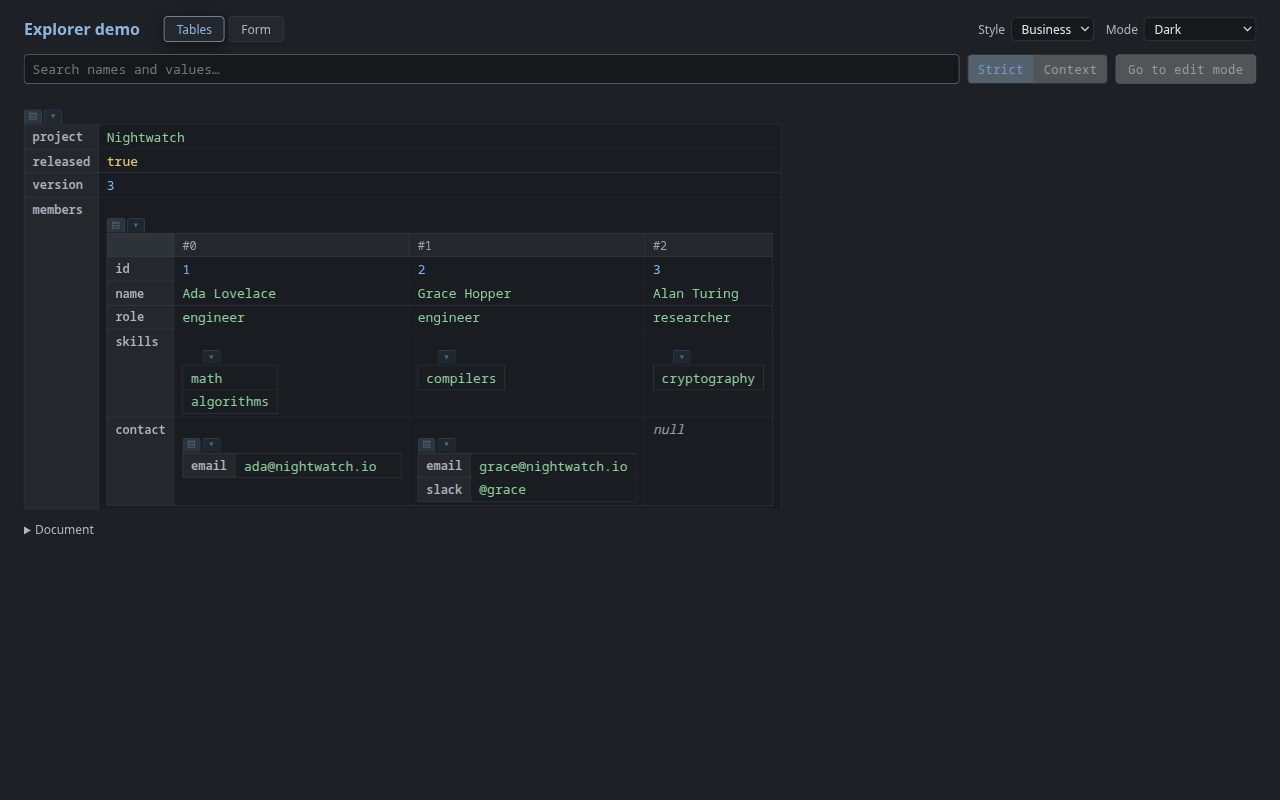
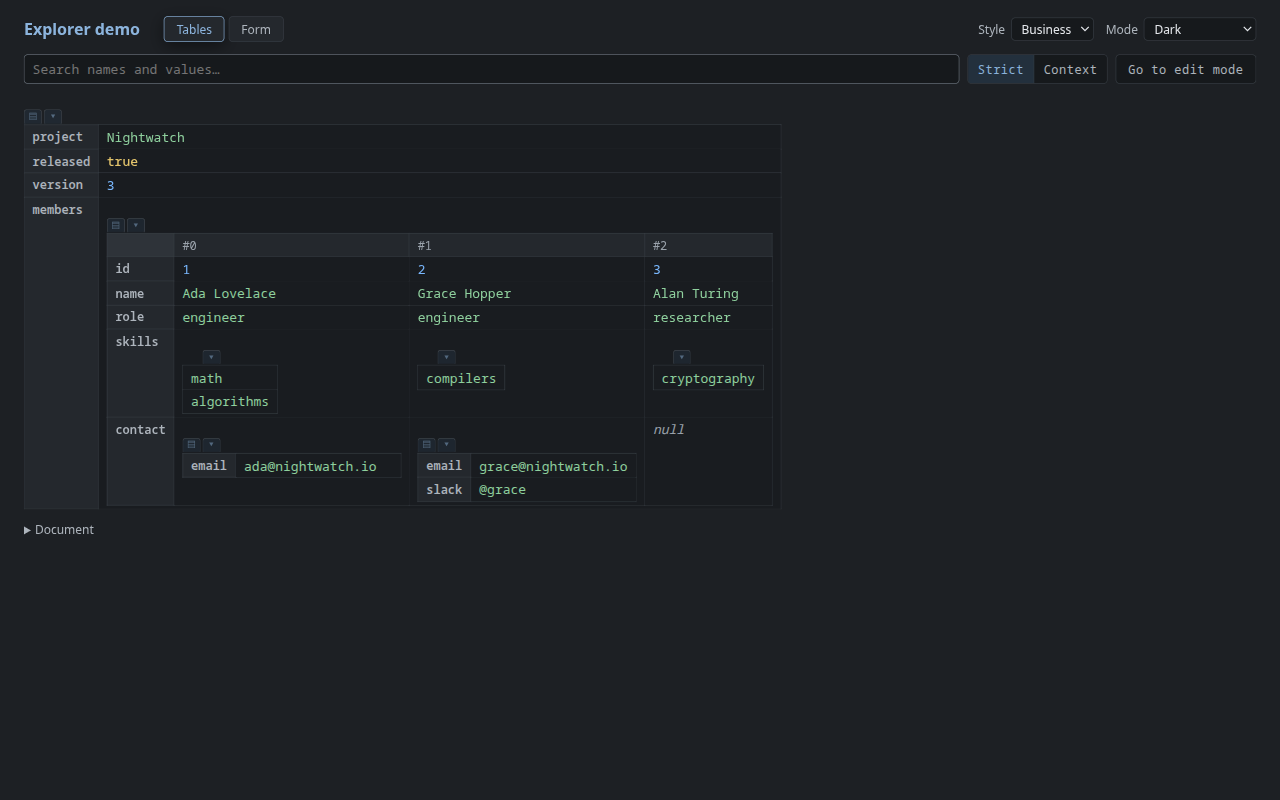
themes: fix save ordering in ThemeService, settle transitions before screenshots

Changed region(s): [[0.75, 0.0625, 1.0, 0.125]]

diff --git a/packages/renderer/src/app/theme/theme.service.ts b/packages/renderer/src/app/theme/theme.service.ts
@@ -14,6 +14,11 @@ export type Style = (typeof STYLES)[number];
 export type ThemeMode = (typeof THEME_MODES)[number];
 export type EffectiveMode = Exclude<ThemeMode, 'system'>;
 
+type ThemeSettings = Partial<Pick<Settings, 'style' | 'mode'>>;
+type ThemeKey = keyof ThemeSettings;
+type Generations = Record<ThemeKey, number>;
+const THEME_KEYS: readonly ThemeKey[] = ['style', 'mode'];
+
 /** Defaults until the settings arrive (and in a plain browser without the desktop bridge). */
 export const DEFAULT_STYLE: Style = 'business';
 export const DEFAULT_MODE: ThemeMode = 'system';
@@ -43,6 +48,14 @@ export class ThemeService {
   private readonly modeState = signal<ThemeMode>(DEFAULT_MODE);
   private readonly systemDark = signal(false);
   private started = false;
+  /** Last values known to be stored in main; a failed save shows these again. */
+  private readonly confirmed: Required<ThemeSettings> = {
+    style: DEFAULT_STYLE,
+    mode: DEFAULT_MODE,
+  };
+  /** Per key: how many local choices were made, and how many saves are still on their way. */
+  private readonly generation: Generations = { style: 0, mode: 0 };
+  private readonly inFlight: Generations = { style: 0, mode: 0 };
 
   readonly style = this.styleState.asReadonly();
   readonly mode = this.modeState.asReadonly();
@@ -63,9 +76,11 @@ export class ThemeService {
       .subscribe((event: SettingsChanged) => this.take(event.settings));
     this.destroyRef.onDestroy(() => sub.unsubscribe());
 
+    const asked = { ...this.generation };
     try {
       const { settings } = await this.api.request('app.settings.get', {});
-      this.take(settings);
+      // A choice made while the answer was on its way is newer than what main read.
+      this.takeAnswer(settings, asked, []);
     } catch {
       // No desktop bridge (ng serve, tests) or main unavailable: keep the defaults.
     }
@@ -81,27 +96,76 @@ export class ThemeService {
     return this.change({ mode });
   }
 
-  private async change(patch: Partial<Pick<Settings, 'style' | 'mode'>>): Promise<void> {
-    const before = { style: this.styleState(), mode: this.modeState() };
-    this.take(patch);
+  private async change(patch: ThemeSettings): Promise<void> {
+    const keys = THEME_KEYS.filter((key) => patch[key] !== undefined);
+    for (const key of keys) {
+      this.generation[key] += 1;
+      this.inFlight[key] += 1;
+    }
+    const mine = { ...this.generation };
+    this.show(patch);
     try {
       const { settings } = await this.api.request('app.settings.set', { settings: patch });
-      this.take(settings);
+      this.takeAnswer(settings, mine, keys);
     } catch (error) {
-      // Not persisted: show what is stored again, so the UI does not pretend it was saved.
-      this.take(before);
+      // Not persisted: show what is stored again, so the UI does not pretend it was saved. Only the
+      // keys this call changed, and only while nothing newer was chosen for them.
+      const revert: ThemeSettings = {};
+      for (const key of keys) {
+        if (this.generation[key] === mine[key] && this.current()[key] === patch[key]) {
+          Object.assign(revert, { [key]: this.confirmed[key] });
+        }
+      }
+      this.show(revert);
       throw error;
+    } finally {
+      for (const key of keys) this.inFlight[key] -= 1;
     }
   }
 
-  private take(settings: Partial<Pick<Settings, 'style' | 'mode'>>): void {
+  /**
+   * Applies an answer from main (`app.settings.get/set`) requested when the local generations
+   * were `asked`. A key is taken only if no newer local choice was made for it since, and no other
+   * save of it is still on its way (unless this answer is for the latest save of that key).
+   */
+  private takeAnswer(settings: ThemeSettings, asked: Generations, own: readonly ThemeKey[]): void {
+    const accepted: ThemeSettings = {};
+    for (const key of THEME_KEYS) {
+      if (this.generation[key] !== asked[key]) continue;
+      if (this.inFlight[key] > 0 && !own.includes(key)) continue;
+      Object.assign(accepted, { [key]: settings[key] });
+    }
+    this.take(accepted);
+  }
+
+  /** Takes values known to be stored (answers and broadcasts from main). */
+  private take(settings: ThemeSettings): void {
+    const valid = this.valid(settings);
+    Object.assign(this.confirmed, valid);
+    this.show(valid);
+  }
+
+  /** Shows `settings` without recording them as stored. */
+  private show(settings: ThemeSettings): void {
+    const valid = this.valid(settings);
+    if (valid.style) this.styleState.set(valid.style);
+    if (valid.mode) this.modeState.set(valid.mode);
+    this.apply();
+  }
+
+  private valid(settings: ThemeSettings): ThemeSettings {
+    const valid: ThemeSettings = {};
     if (settings.style && (STYLES as readonly string[]).includes(settings.style)) {
-      this.styleState.set(settings.style);
+      valid.style = settings.style;
     }
     if (settings.mode && (THEME_MODES as readonly string[]).includes(settings.mode)) {
-      this.modeState.set(settings.mode);
+      valid.mode = settings.mode;
     }
-    this.apply();
+    return valid;
+  }
+
+  private current(): Required<ThemeSettings> {
+    return { style: this.styleState(), mode: this.modeState() };
   }
 
   private watchSystem(): void {

diff --git a/packages/renderer/src/app/theme/theme.service.spec.ts b/packages/renderer/src/app/theme/theme.service.spec.ts
@@ -286,6 +286,31 @@ describe('ThemeService', () => {
       expect(theme.mode()).toBe('dark');
       expect(attrs()).toEqual({ style: 'business', theme: 'dark' });
     });
+
+    it('two overlapping failed saves end on the stored values, not an unsaved one', async () => {
+      const failures = [
+        deferred<{ error: { code: 'INTERNAL'; message: string } }>(),
+        deferred<{ error: { code: 'INTERNAL'; message: string } }>(),
+      ];
+      let calls = 0;
+      fake.handle(
+        'app.settings.set',
+        () => failures[calls++]?.promise ?? new Promise(() => undefined),
+      );
+      const theme = TestBed.inject(ThemeService);
+      await theme.init();
+
+      const style = theme.setStyle('tron');
+      const mode = theme.setMode('dark');
+      failures[0]?.resolve({ error: { code: 'INTERNAL', message: 'disk full' } });
+      await expect(style).rejects.toMatchObject({ code: 'INTERNAL' });
+      failures[1]?.resolve({ error: { code: 'INTERNAL', message: 'disk full' } });
+      await expect(mode).rejects.toMatchObject({ code: 'INTERNAL' });
+
+      expect(theme.style()).toBe('business');
+      expect(theme.mode()).toBe('system');
+      expect(attrs()).toEqual({ style: 'business', theme: 'light' });
+    });
   });
 });
 

diff --git a/apps/desktop/test/theme.electron.spec.ts b/apps/desktop/test/theme.electron.spec.ts
@@ -112,7 +112,14 @@ describe('themes in the running app', () => {
           expect(now.font).toMatch(/^system-ui/);
           expect(now.overlay).toMatch(/^none(, none)*$/);
         }
-        await page.screenshot({ path: path.join(shots, `explorer-${style}-${mode}.png`) });
+        // Controls fade between themes (CSS transitions): shoot the final colors, not a mix.
+        await page.evaluate(() =>
+          Promise.all(document.getAnimations().map((a) => a.finished)).then(() => undefined),
+        );
+        await page.screenshot({
+          path: path.join(shots, `explorer-${style}-${mode}.png`),
+          animations: 'disabled',
+        });
       }
     }
     // Four different page backgrounds, and the page was never reloaded.

diff --git a/reviews/themes/fixes.md b/reviews/themes/fixes.md
@@ -1,0 +1,74 @@
+# Fix Report
+
+Date: 2026-11-16
+
+Task: themes - M0: Business and Tron styles, each light and dark
+
+Scope: current task. Findings CR-1 and CR-2 come from `reviews/themes/review.md`. TW-1, TW-2 and TW-3 come from `reviews/themes/tests.md`.
+
+## Fixed findings
+
+### CR-2, TW-1, TW-2, TW-3: ThemeService ordering under overlapping requests
+
+Files changed:
+- `packages/renderer/src/app/theme/theme.service.ts`
+- `packages/renderer/src/app/theme/theme.service.spec.ts` (one regression test added for CR-2; Prettier formatting)
+
+Problem:
+- `change()` took a snapshot of both style and mode, and a failed save restored the whole snapshot. That snapshot could hold another call's unsaved value (CR-2), and the restore could also overwrite the other key after it was saved (TW-3).
+- Every `app.settings.set` answer was applied unconditionally. An older answer that arrived last could override a newer choice (TW-2).
+- The initial `app.settings.get` answer was also applied unconditionally. A late answer could undo a choice the user made in the meantime (TW-1).
+
+Fix:
+- The service now tracks two counters per key: a generation, raised on each local choice, and an in-flight count of saves still waiting for an answer. It also tracks `confirmed`, the last value per key known to be stored in main.
+- An answer from main (`get` or `set`) is applied to a key only if two things hold:
+    - no newer local choice was made for that key since the request was sent;
+    - no other save of that key is still pending, unless this answer belongs to the latest save of that key.
+- A failed save reverts only the keys that call changed. It reverts a key only while that call is still the latest choice for it and the key still shows the value the call set. The key goes back to `confirmed`, not to a snapshot.
+- `app.settings.changed` broadcasts are still applied unconditionally and update `confirmed`.
+- The public API (`init`, `setStyle`, `setMode`, `style`, `mode`, `effective`) is unchanged.
+- New regression test: `two overlapping failed saves end on the stored values, not an unsaved one`. It covers the exact CR-2 sequence and fails against the old snapshot logic.
+
+Validation:
+- `cd packages/renderer && npx ng test --include='src/app/theme/*.spec.ts'`: Pass. 2 files, 44 tests; the 3 TW tests and the new CR-2 test all pass.
+
+### CR-1: Evidence screenshots taken during CSS transitions
+
+Files changed:
+- `apps/desktop/test/theme.electron.spec.ts`
+- `reviews/themes/screenshots/explorer-business-dark.png`, `explorer-tron-light.png`, `explorer-tron-dark.png` (regenerated). `explorer-business-light.png` was copied as well and came out byte-identical, since nothing was transitioning when it was taken.
+
+Problem:
+Screenshots were taken right after the theme attributes changed, while the explorer controls were still in their 0.15 s color transitions. This left the buttons grey in the screenshots.
+
+Fix:
+Before each screenshot, the test now waits for `Promise.all(document.getAnimations().map((a) => a.finished))` inside the page. It also passes `animations: 'disabled'` to `page.screenshot`. The four PNGs were copied from `apps/desktop/test-results/screenshots/` into `reviews/themes/screenshots/` and inspected visually. Every control shows its final theme colors; for example, the Strict, Context and "Go to edit mode" buttons in Tron light are white with readable text.
+
+Validation:
+- `npm run test:electron --prefix /home/eric/work/mongo-db-client-agents/agent-1`: `theme.electron.spec.ts` passes. Overall: 26 tests, 22 passed, 4 failed. All 4 failures are the known ones that also fail on main: 3 in `app.electron.spec.ts` (thicket://app with CSP, window.open/navigation, will-frame-navigate) and 1 in `dev.electron.spec.ts` (dev server URL). They expect a URL without `#/` and are not related to this task.
+
+## Not fixed
+
+None.
+
+## Validation summary
+
+Focused tests:
+- `cd packages/renderer && npx ng test --include='src/app/theme/*.spec.ts'`: Pass (44/44)
+- `npm run test:electron --prefix /home/eric/work/mongo-db-client-agents/agent-1`: `theme.electron.spec.ts` Pass. The 4 failures are the known ones outside this task, listed above.
+
+Full test suite:
+- `npm run check` (repo root): Pass. ESLint, Prettier and typecheck all pass. Root vitest: 33 files, 2099 tests passed. Renderer: 29 files, 485 tests passed.
+
+Lint/type-check/build:
+- Included in `npm run check`: Pass.
+
+`.taskcheck`:
+- Not run separately. It runs `npm run check`, which passed.
+
+Remaining unresolved findings:
+0
+
+## Final status
+
+All validated findings fixed and validation passed.
